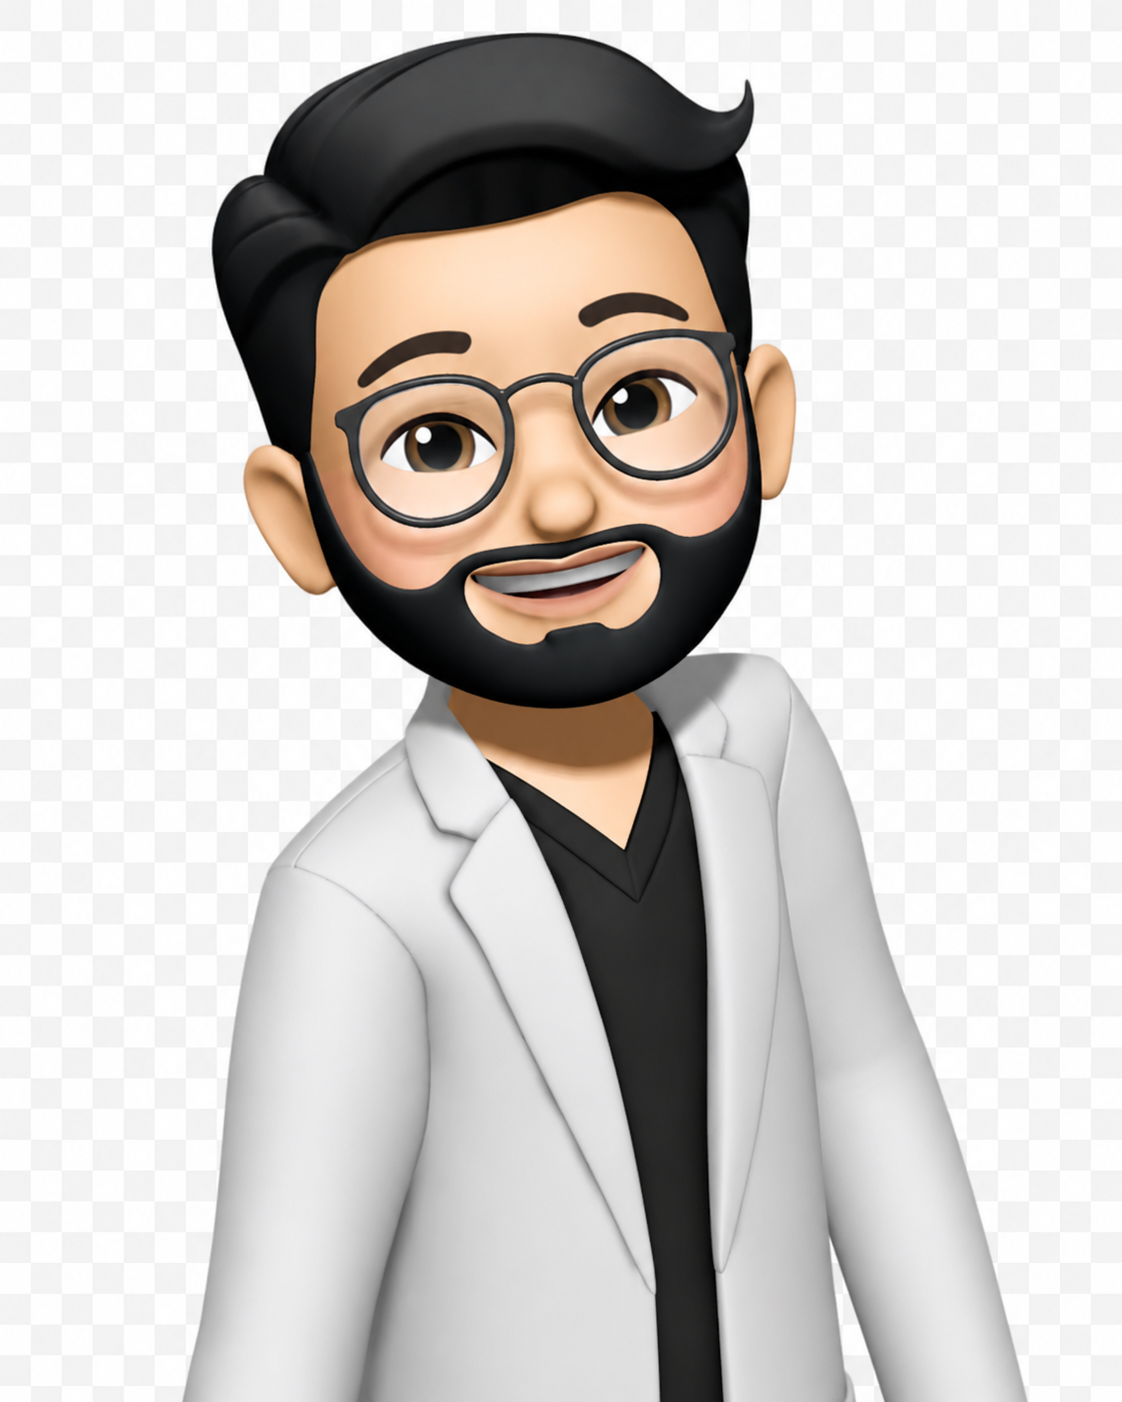
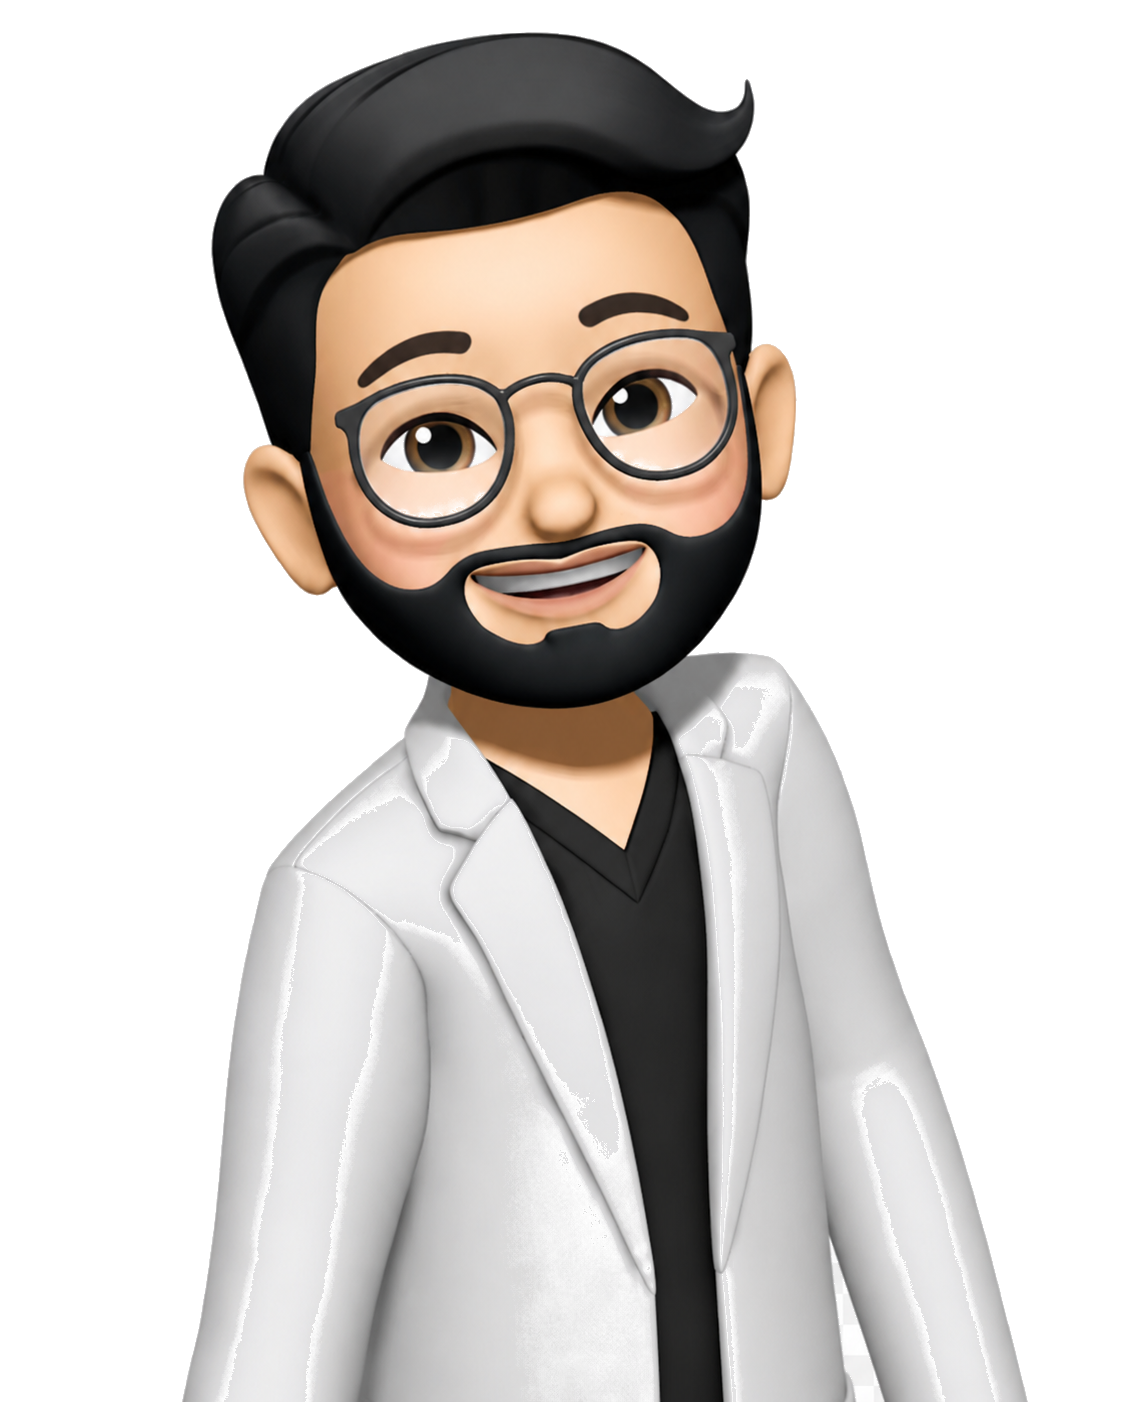
Remove all em dashes from site content

diff --git a/blogs.html b/blogs.html
@@ -34,7 +34,7 @@ description: "Thoughts on AI, machine learning, and building things"
             {% endfor %}
 
             {% if site.blogs.size == 0 %}
-            <p class="blog-empty">No posts yet — check back soon.</p>
+            <p class="blog-empty">No posts yet. Check back soon.</p>
             {% endif %}
         </div>
     </div>

diff --git a/_blogs/ai-vs-human-brain.md b/_blogs/ai-vs-human-brain.md
@@ -57,7 +57,7 @@ read_time: 12
 <h2>The Human Brain: A Different Kind of Computer</h2>
 
 <p>
-    Your brain, on the other hand, is something entirely different. It's not just processing information—it's experiencing it. When you read these words, you're not just recognizing patterns of letters. You're understanding meaning, connecting ideas, forming thoughts, and experiencing consciousness.
+    Your brain, on the other hand, is something entirely different. It's not just processing information. It's experiencing it. When you read these words, you're not just recognizing patterns of letters. You're understanding meaning, connecting ideas, forming thoughts, and experiencing consciousness.
 </p>
 
 <p>
@@ -116,7 +116,7 @@ read_time: 12
 <h2>Conclusion</h2>
 
 <p>
-    AI is not going to replace humans. It's going to change how we work, think, and create. But it will always be a tool—a very powerful tool—that we use to enhance our own capabilities.
+    AI is not going to replace humans. It's going to change how we work, think, and create. But it will always be a tool we use to enhance our own capabilities.
 </p>
 
 <p>

diff --git a/index.md b/index.md
@@ -58,7 +58,7 @@ image: "/photos/export.png"
             </p>
             <p>
                 I specialize in designing agentic systems, document intelligence workflows, and ML pipelines deployed at scale.
-                My work spans insurance, esports, and enterprise analytics — from research and development to production deployment of AI systems that make real-world impact.
+                My work spans insurance, esports, and enterprise analytics, from research and development to production deployment of AI systems that make real-world impact.
             </p>
         </div>
         <div class="about-skills">
@@ -166,7 +166,7 @@ image: "/photos/export.png"
                             <img src="{{ '/photos/iulogo.jpeg' | relative_url }}" alt="Indiana University Logo" loading="lazy">
                         </div>
                         <div class="timeline-info">
-                            <h3>Research Assistant — Generative AI</h3>
+                            <h3>Research Assistant, Generative AI</h3>
                             <span class="company">Indiana University Bloomington</span>
                             <span class="period">Dec 2023 – May 2024</span>
                         </div>

diff --git a/_projects/20-claudos.md b/_projects/20-claudos.md
@@ -14,7 +14,7 @@ demo_url: "https://sanketmuchhala.github.io/claudos/"
 
 ## Overview
 
-ClaudOS is a pixel-perfect macOS desktop simulator that runs entirely in your browser. Experience a fully functional desktop environment with window management, system apps, and authentic macOS aesthetics — all built with vanilla JavaScript and CSS.
+ClaudOS is a pixel-perfect macOS desktop simulator that runs entirely in your browser. Experience a fully functional desktop environment with window management, system apps, and authentic macOS aesthetics, all built with vanilla JavaScript and CSS.
 
 ## Key Features
 

diff --git a/_projects/21-raichu.md b/_projects/21-raichu.md
@@ -2,7 +2,7 @@
 layout: project
 rank: 22
 title: "Raichu"
-description: "Chess meets checkers — a strategic board game blending both rulesets with a Pokemon theme. AI opponent powered by minimax with alpha-beta pruning. Play it live at waichu.live."
+description: "Chess meets checkers: a strategic board game blending both rulesets with a Pokemon theme. AI opponent powered by minimax with alpha-beta pruning. Play it live at waichu.live."
 date: 2024-07-01
 categories: ["Games", "Game AI", "SWE"]
 technologies: ["Python", "Game AI", "Minimax", "Web Game"]

diff --git a/_projects/22-linkedin-connections.md b/_projects/22-linkedin-connections.md
@@ -11,7 +11,7 @@ github_url: "https://github.com/sanketmuchhala/Linkedin-Connections"
 
 ## Overview
 
-LinkedIn Connections is an intelligent networking tool that helps you leverage your existing LinkedIn network more strategically. Instead of cold outreach, it identifies the best people in your connections to approach for specific roles or companies — surfacing warm paths you didn't know you had.
+LinkedIn Connections is an intelligent networking tool that helps you leverage your existing LinkedIn network more strategically. Instead of cold outreach, it identifies the best people in your connections to approach for specific roles or companies, surfacing warm paths you didn't know you had.
 
 ## Key Features
 

diff --git a/_projects/23-tallycart.md b/_projects/23-tallycart.md
@@ -11,7 +11,7 @@ github_url: "https://github.com/sanketmuchhala/TallyCart"
 
 ## Overview
 
-TallyCart is a native iOS app that makes grocery shopping smarter. It goes beyond a simple list — tracking prices over time, learning what you regularly buy, and helping you stay on budget.
+TallyCart is a native iOS app that makes grocery shopping smarter. It goes beyond a simple list: tracking prices over time, learning what you regularly buy, and helping you stay on budget.
 
 ## Key Features
 

diff --git a/_projects/24-ruthie-realty.md b/_projects/24-ruthie-realty.md
@@ -11,7 +11,7 @@ demo_url: "https://ruthierealty.com/"
 
 ## Overview
 
-A fully custom real estate website built for a private client. The goal was a clean, professional online presence that converts visitors into leads — built on WordPress for easy content management by a non-technical owner.
+A fully custom real estate website built for a private client. The goal was a clean, professional online presence that converts visitors into leads, built on WordPress for easy content management by a non-technical owner.
 
 ## Key Features
 